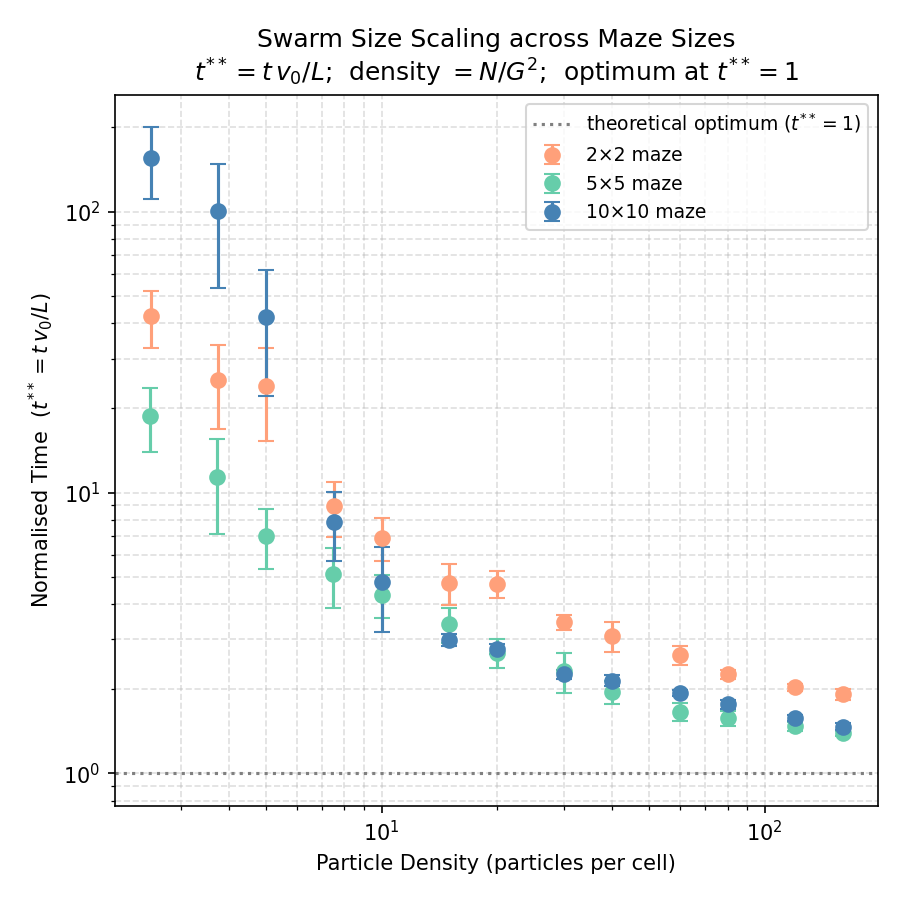
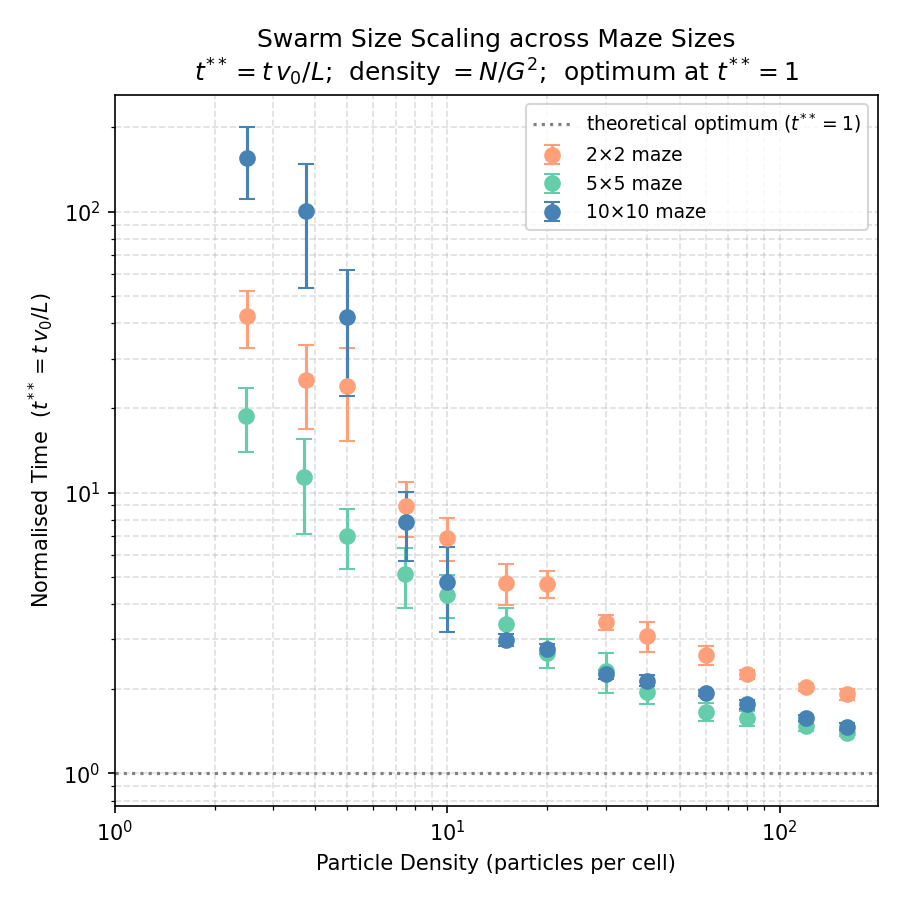
fig4 updated axes limits

diff --git a/figures/fig6/e/plot_swarm_scaling.py b/figures/fig6/e/plot_swarm_scaling.py
@@ -127,17 +127,17 @@ DATASETS = [
                      r'($t^* = t\,v_0/r$,  10×10 maze, seed=42, 6 trials each)'),
         ylim      = (1e3, 1e6),
     ),
-        dict(
-        raw       = raw_data_G20,
-        grid_size = 20,
-        L         = SOLUTION_PATH_LENGTH_G20,
-        color     = '#7B68EE',
-        label     = '20×20 maze',
-        outfile   = 'swarm_scaling_plot_G20.png',
-        title     = ('Time to Reach Goal vs Swarm Size\n'
-                     r'($t^* = t\,v_0/r$,  20×20 maze, seed=42, 6 trials each)'),
-        ylim      = None #(1e3, 1e6),
-    ),
+    #     dict(
+    #     raw       = raw_data_G20,
+    #     grid_size = 20,
+    #     L         = SOLUTION_PATH_LENGTH_G20,
+    #     color     = '#7B68EE',
+    #     label     = '20×20 maze',
+    #     outfile   = 'swarm_scaling_plot_G20.png',
+    #     title     = ('Time to Reach Goal vs Swarm Size\n'
+    #                  r'($t^* = t\,v_0/r$,  20×20 maze, seed=42, 6 trials each)'),
+    #     ylim      = None #(1e3, 1e6),
+    # ),
 ]
 
 
@@ -219,6 +219,7 @@ def plot_combined():
 
     ax.set_xscale('log')
     ax.set_yscale('log')
+    ax.set_xlim(1,None)
     ax.set_xlabel('Particle Density (particles per cell)')
     ax.set_ylabel(r'Normalised Time  ($t^{**} = t\, v_0 / L$)')
     ax.set_title('Swarm Size Scaling across Maze Sizes\n'
@@ -228,13 +229,12 @@ def plot_combined():
     ax.xaxis.set_minor_formatter(ticker.NullFormatter())
     ax.yaxis.set_minor_formatter(ticker.NullFormatter())
     plt.tight_layout()
-    plt.savefig('swarm_scaling_plot_combined_g20.png', dpi=150)
+    plt.savefig('swarm_scaling_plot_combined_.png', dpi=150)
     plt.show()
-    print("Saved swarm_scaling_plot_combined_g20.png")
 
 
 # ── Run ───────────────────────────────────────────────────────────────────────
-for ds in DATASETS:
-    plot_individual(ds)
+# for ds in DATASETS:
+#     plot_individual(ds)
 
 plot_combined()

diff --git a/figures/fig6/d/plot_maze_scaling.py b/figures/fig6/d/plot_maze_scaling.py
@@ -43,6 +43,7 @@ ax.set_yscale('log')
 ax.set_xticks(sizes)
 ax.set_xticklabels([str(s) for s in sizes])
 ax.xaxis.set_minor_formatter(ticker.NullFormatter())
+ax.set_ylim(100, 1000000)
 ax.set_xlabel('Maze Area')
 ax.set_ylabel(r'Time to Reach Goal  ($t^* = t\, v_0 / r$)')
 ax.set_title(r'Time to Reach Goal vs Maze Area ($t^* = t\, v_0 / r$)')

diff --git a/figures/fig6/f/plot_wallprune.py b/figures/fig6/f/plot_wallprune.py
@@ -59,6 +59,7 @@ ax.legend(fontsize=9)
 ax.set_yscale('log')
 ax.set_xscale('log')
 ax.set_xlim(0.85, (px.max() + 1) * 1.5)
+ax.set_ylim(1000, 100000)
 ax.set_xticks(px_plot)
 ax.set_xticklabels([str(v) for v in px], rotation=45, ha='right')
 ax.xaxis.set_minor_formatter(ticker.NullFormatter())
